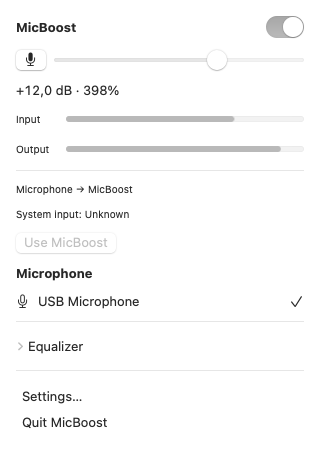
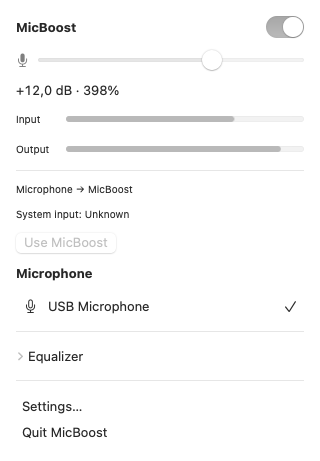
Align panel controls and app commands with macOS conventions

diff --git a/Sources/MicBoostUI/Views.swift b/Sources/MicBoostUI/Views.swift
@@ -1,4 +1,5 @@
 import AppKit
+import CoreAudio
 import MicBoostCore
 import SwiftUI
 
@@ -36,7 +37,11 @@ import SwiftUI
             }
             HStack {
                 Button(action: model.mute) { Image(systemName: model.controls.muted ? "mic.slash.fill" : "mic.fill") }
-                    .accessibilityLabel(localized("Mute")).keyboardShortcut("m", modifiers: [])
+                    .buttonStyle(.borderless)
+                    .accessibilityLabel(localized("Mute"))
+                    .accessibilityValue(localized(model.controls.muted ? "On" : "Off"))
+                    .help(localized("Mute"))
+                    .keyboardShortcut("m", modifiers: [])
                 Slider(
                     value: Binding(get: { model.controls.gainDB }, set: model.gain), in: Settings.gainRange
                 )
@@ -75,44 +80,59 @@ import SwiftUI
                 Button(localized("Use MicBoost"), action: model.useBlackHole).disabled(model.status?.state != .running)
             }
             Text(localized("Microphone")).font(.headline)
-            ForEach(model.sources, id: \.uid) { device in
-                Button {
-                    model.select(device)
-                } label: {
-                    HStack {
-                        Image(systemName: "mic")
-                        Text(device.name).lineLimit(2)
-                        Spacer()
-                        if model.controls.selectedInputUID == device.uid { Image(systemName: "checkmark") }
-                    }.contentShape(Rectangle())
-                }.buttonStyle(.plain).accessibilityValue(
-                    model.controls.selectedInputUID == device.uid ? localized("Selected") : "")
-            }
+            VStack(spacing: 0) {
+                ForEach(model.sources, id: \.uid) { device in
+                    Button {
+                        model.select(device)
+                    } label: {
+                        HStack(spacing: 8) {
+                            Image(systemName: sourceSymbol(device)).frame(width: 18)
+                            Text(device.name).lineLimit(2)
+                            Spacer()
+                            if model.controls.selectedInputUID == device.uid { Image(systemName: "checkmark") }
+                        }
+                    }
+                    .accessibilityLabel(device.name)
+                    .accessibilityValue(model.controls.selectedInputUID == device.uid ? localized("Selected") : "")
+                }
+            }.buttonStyle(PanelMenuItemStyle())
             if let uid = model.controls.selectedInputUID, !model.sources.contains(where: { $0.uid == uid }) {
                 Text("\(uid) (\(localized("Disconnected")))").font(.caption)
             }
             Divider()
             DisclosureGroup(localized("Equalizer"), isExpanded: $model.expanded) {
                 VStack(alignment: .leading, spacing: 8) {
-                    Toggle(localized("Enable EQ"), isOn: $model.controls.eq.enabled).onChange(
-                        of: model.controls.eq.enabled
-                    ) { model.eq() }
+                    HStack {
+                        Text(localized("Enable EQ"))
+                        Spacer()
+                        Toggle(localized("Enable EQ"), isOn: $model.controls.eq.enabled)
+                            .labelsHidden()
+                            .accessibilityLabel(localized("Enable EQ"))
+                            .toggleStyle(.switch)
+                            .controlSize(.small)
+                            .onChange(of: model.controls.eq.enabled) { model.eq() }
+                    }
                     band(
                         "Bass", gain: $model.controls.eq.low.gainDB, frequency: $model.controls.eq.low.frequency,
                         range: EQSettings.lowFrequencyRange)
                     band(
                         "Mid", gain: $model.controls.eq.mid.gainDB, frequency: $model.controls.eq.mid.frequency,
                         range: EQSettings.midFrequencyRange)
-                    Slider(value: $model.controls.eq.mid.q, in: EQSettings.midQRange) { Text(localized("Width")) }
+                    LabeledContent(localized("Width"), value: String(format: "Q %.1f", model.controls.eq.mid.q))
+                        .font(.caption)
+                    Slider(value: $model.controls.eq.mid.q, in: EQSettings.midQRange)
+                        .accessibilityLabel(localized("Width"))
                         .accessibilityValue(String(format: "Q %.1f", model.controls.eq.mid.q)).onChange(
                             of: model.controls.eq.mid.q
                         ) { model.eq() }
-                    Text(String(format: "Q %.1f", model.controls.eq.mid.q)).font(.caption)
                     band(
                         "Treble", gain: $model.controls.eq.high.gainDB, frequency: $model.controls.eq.high.frequency,
                         range: EQSettings.highFrequencyRange)
-                    Button(localized("Voice preset"), action: model.voicePreset)
-                    Button(localized("Reset EQ"), action: model.reset)
+                    HStack {
+                        Button(localized("Voice preset"), action: model.voicePreset)
+                        Spacer()
+                        Button(localized("Reset EQ"), action: model.reset)
+                    }.buttonStyle(.borderless)
                 }.padding(.top, 8)
             }
             Divider()
@@ -125,6 +145,15 @@ import SwiftUI
             }.buttonStyle(PanelMenuItemStyle())
         }.padding(16).frame(width: 320).fixedSize(horizontal: false, vertical: true)
     }
+    private func sourceSymbol(_ device: AudioDevice) -> String {
+        switch device.transport {
+        case kAudioDeviceTransportTypeBluetooth, kAudioDeviceTransportTypeBluetoothLE: "headphones"
+        case kAudioDeviceTransportTypeUSB: "mic.fill"
+        case kAudioDeviceTransportTypeContinuityCaptureWired, kAudioDeviceTransportTypeContinuityCaptureWireless:
+            "iphone"
+        default: "mic"
+        }
+    }
     private func meter(_ title: String, _ db: Double) -> some View {
         HStack {
             Text(localized(title)).font(.caption).frame(width: 42, alignment: .leading)
@@ -136,7 +165,12 @@ import SwiftUI
         -> some View
     {
         VStack(alignment: .leading) {
-            Text(localized(title)).font(.caption)
+            LabeledContent(localized(title)) {
+                Text(
+                    gain.wrappedValue.formatted(.number.precision(.fractionLength(1)).sign(strategy: .always())) + " dB"
+                )
+                .monospacedDigit()
+            }.font(.caption)
             Slider(
                 value: Binding(get: { gain.wrappedValue }, set: { gain.wrappedValue = ($0 * 2).rounded() / 2 }),
                 in: EQSettings.gainRange
@@ -157,7 +191,12 @@ import SwiftUI
             .onChange(of: gain.wrappedValue) { model.eq() }
             HStack {
                 Text(localized("Frequency"))
-                TextField("Hz", value: frequency, format: .number).accessibilityLabel("\(localized(title)), Hz")
+                Spacer()
+                TextField("Hz", value: frequency, format: .number)
+                    .textFieldStyle(.roundedBorder)
+                    .multilineTextAlignment(.trailing)
+                    .frame(width: 80)
+                    .accessibilityLabel("\(localized(title)), Hz")
                     .onKeyPress(keys: [.upArrow, .downArrow]) { press in
                         let direction = press.key == .upArrow ? 1.0 : -1.0
                         let maximum = min(range.upperBound, (model.status?.sampleRate ?? 48000) * 0.45)

diff --git a/Sources/MicBoostApp/App/main.swift b/Sources/MicBoostApp/App/main.swift
@@ -17,6 +17,7 @@ import SwiftUI
     private var local: Any?
     private var quitting = false
     func applicationDidFinishLaunching(_ notification: Notification) {
+        configureMenu()
         let item = NSStatusBar.system.statusItem(withLength: NSStatusItem.squareLength)
         item.button?.target = self
         item.button?.action = #selector(toggle)
@@ -33,6 +34,31 @@ import SwiftUI
             update()
             showPanel()
         }
+    }
+    private func configureMenu() {
+        let main = NSMenu()
+        let applicationItem = NSMenuItem(title: "MicBoost", action: nil, keyEquivalent: "")
+        let applicationMenu = NSMenu(title: "MicBoost")
+        let settingsItem = NSMenuItem(
+            title: localized("Settings…"), action: #selector(showSettings), keyEquivalent: ",")
+        settingsItem.target = self
+        applicationMenu.addItem(settingsItem)
+        applicationMenu.addItem(.separator())
+        applicationMenu.addItem(
+            withTitle: localized("Quit MicBoost"), action: #selector(NSApplication.terminate(_:)), keyEquivalent: "q")
+        applicationItem.submenu = applicationMenu
+        main.addItem(applicationItem)
+
+        let editItem = NSMenuItem(title: localized("Edit"), action: nil, keyEquivalent: "")
+        let editMenu = NSMenu(title: localized("Edit"))
+        editMenu.addItem(withTitle: localized("Cut"), action: #selector(NSText.cut(_:)), keyEquivalent: "x")
+        editMenu.addItem(withTitle: localized("Copy"), action: #selector(NSText.copy(_:)), keyEquivalent: "c")
+        editMenu.addItem(withTitle: localized("Paste"), action: #selector(NSText.paste(_:)), keyEquivalent: "v")
+        editMenu.addItem(
+            withTitle: localized("Select All"), action: #selector(NSText.selectAll(_:)), keyEquivalent: "a")
+        editItem.submenu = editMenu
+        main.addItem(editItem)
+        NSApplication.shared.mainMenu = main
     }
     private func update() {
         if let panel, panel.isVisible, let material = panel.contentView, let host = material.subviews.first {
@@ -109,12 +135,13 @@ import SwiftUI
             self.local = nil
         }
     }
-    private func showSettings() {
+    @objc private func showSettings() {
+        closePanel()
         if settings == nil {
             let window = NSWindow(
                 contentRect: NSRect(x: 0, y: 0, width: 540, height: 680), styleMask: [.titled, .closable],
                 backing: .buffered, defer: false)
-            window.title = localized("Settings…")
+            window.title = localized("MicBoost Settings")
             window.contentView = NSHostingView(rootView: SettingsView(model: model))
             window.isReleasedWhenClosed = false
             window.delegate = self

diff --git a/docs/ui.md b/docs/ui.md
@@ -4,6 +4,7 @@
 
 - Terminologia: a UI chama a entrada processada de "MicBoost". O nome "BlackHole 2ch" só aparece onde o usuário precisa reconhecê-lo: ao escolher o microfone dentro de um app que não segue a entrada do sistema, e quando o driver está ausente.
 
+- A aparência e o comportamento nativos são a diretriz para toda a interface: preferir componentes AppKit/SwiftUI, métricas e cores do sistema; personalizar apenas o necessário para o painel. Ações de menu ficam em texto, switches usam o estilo do sistema e campos mantêm os comandos padrão de edição.
 - Parecer parte do sistema: materiais, tipografia (fonte do sistema, tamanhos de controle `.regular`/`.small`), espaçamento e cantos dos módulos de Som/Bluetooth da Central de Controle; ícones SF Symbols; sliders, toggles e listas nativos.
 - Sem aparência de mixer de estúdio e sem animações contínuas. Os medidores são o único elemento atualizado periodicamente, e só com o painel visível.
 - Toda a UI vem do `AppModel` (`@Observable`, `@MainActor`), que reflete o `EngineStatus` e encaminha comandos ao `EngineController`. A UI nunca chama a HAL.
@@ -43,11 +44,13 @@ Conteúdo, de cima para baixo (SwiftUI, `PanelView`):
    - com `manageDefaultInput` desligado, a linha só informa a entrada atual, sem tratá-la como divergência; o botão "Usar MicBoost" aparece se a entrada não for o BlackHole.
 5. **Microfone:** lista de fontes elegíveis no estilo das listas de dispositivos da Central de Controle (ícone por transporte, nome, marca de seleção). Selecionar troca a fonte (reconstrução do motor com rampa). Uma fonte persistida que não está conectada aparece como "<nome> (desconectado)".
 6. **Equalizador:** seção expansível (`DisclosureGroup`, recolhida por padrão; o estado de expansão persiste), com:
-   - `Toggle` "Ativar EQ";
+   - `Toggle` "Ativar EQ" com switch nativo pequeno;
    - Graves: slider de ganho (dB) + campo de frequência (Hz);
    - Médios: slider de ganho + campo de frequência + slider "Largura" com o valor de Q mostrado (Q maior = banda mais estreita);
    - Agudos: slider de ganho + campo de frequência;
-   - botões "Padrão de voz" e "Zerar EQ".
+   - ações sem borda "Padrão de voz" e "Zerar EQ" na mesma linha.
+
+   O ganho de cada banda aparece numericamente junto ao título; campos de frequência têm largura compacta e alinhamento numérico à direita.
 
    Valores editáveis, validados e limitados às faixas de [dsp.md](dsp.md#equalizador). Sem gráfico de resposta.
 7. **Rodapé:** opções de menu em texto puro, uma por linha e alinhadas à esquerda, "Ajustes…" (abre a janela de ajustes) e "Sair do MicBoost". Sem moldura de botão; a linha inteira é clicável e ganha destaque semântico ao passar o ponteiro ou pressionar, como as ações nos painéis de Som do macOS.
@@ -84,6 +87,7 @@ junto ao rótulo e linhas de diagnóstico/sobre com rótulo à esquerda e valor 
 ## Teclado e acessibilidade
 
 - Todo controle é alcançável por Tab, e as setas ajustam sliders: ganho em passos de 0,5 dB (1 dB com ⌥); EQ em 0,5 dB, frequência em 1/12 de oitava.
+- ⌘Q encerra o app e ⌘, abre os ajustes; campos de texto usam Recortar/Copiar/Colar/Selecionar Tudo do menu Editar nativo. Abrir os ajustes fecha o painel.
 - Atalhos com o painel focado: `M` alterna o mute, `Esc` fecha, ⌘, abre os ajustes.
 - VoiceOver:
   - sliders com `accessibilityLabel` ("Ganho", "Graves, ganho"…) e `accessibilityValue` em dB e percentual;

diff --git a/README.md b/README.md
@@ -121,7 +121,7 @@ never disables Gatekeeper or SIP and never removes the quarantine flag, and neit
 3. Adjust gain, mute and EQ in the panel. Close the panel whenever you like; audio keeps running.
 4. In your calling or recording app, choose **BlackHole 2ch** or **System Default**.
 5. Turn processing off to release the microphone, or choose **Quit MicBoost** from the text menu
-   at the bottom of the panel. The previous
+   at the bottom of the panel. Standard macOS shortcuts include ⌘, for settings and ⌘Q to quit. The previous
    system input is restored if automatic switching is enabled and you have not changed it yourself.
 
 ### Diagnostics
